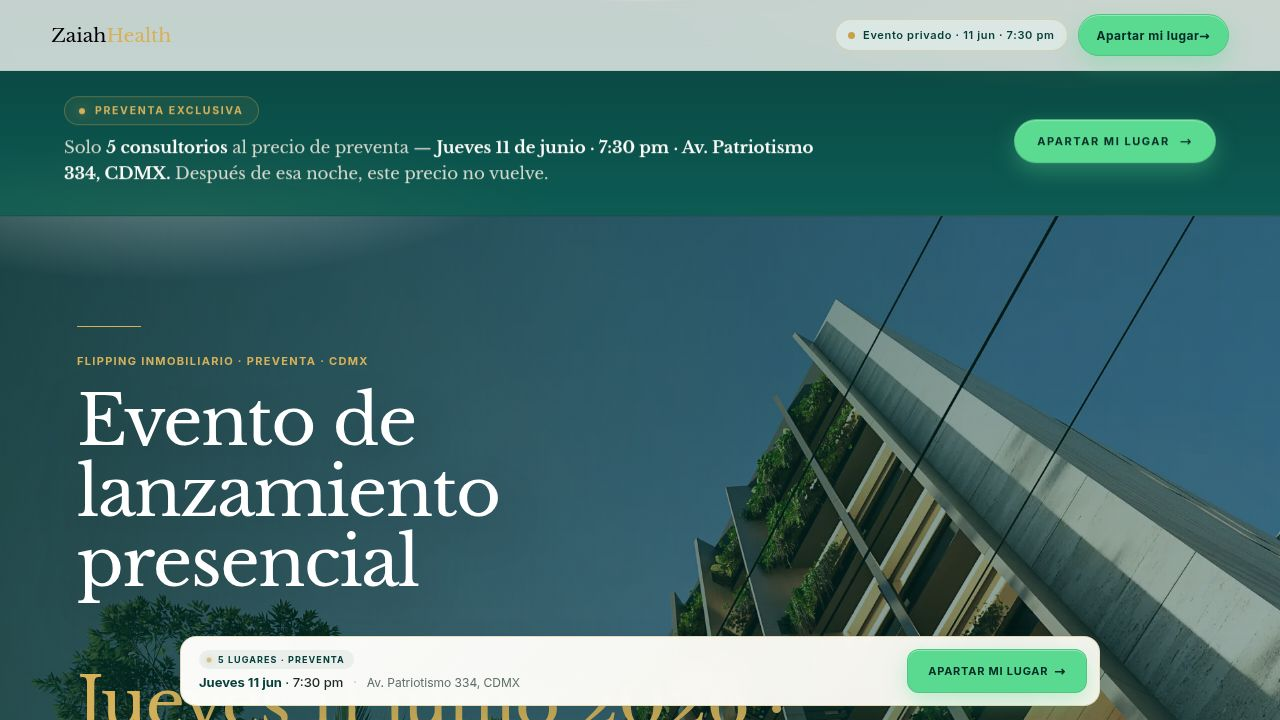
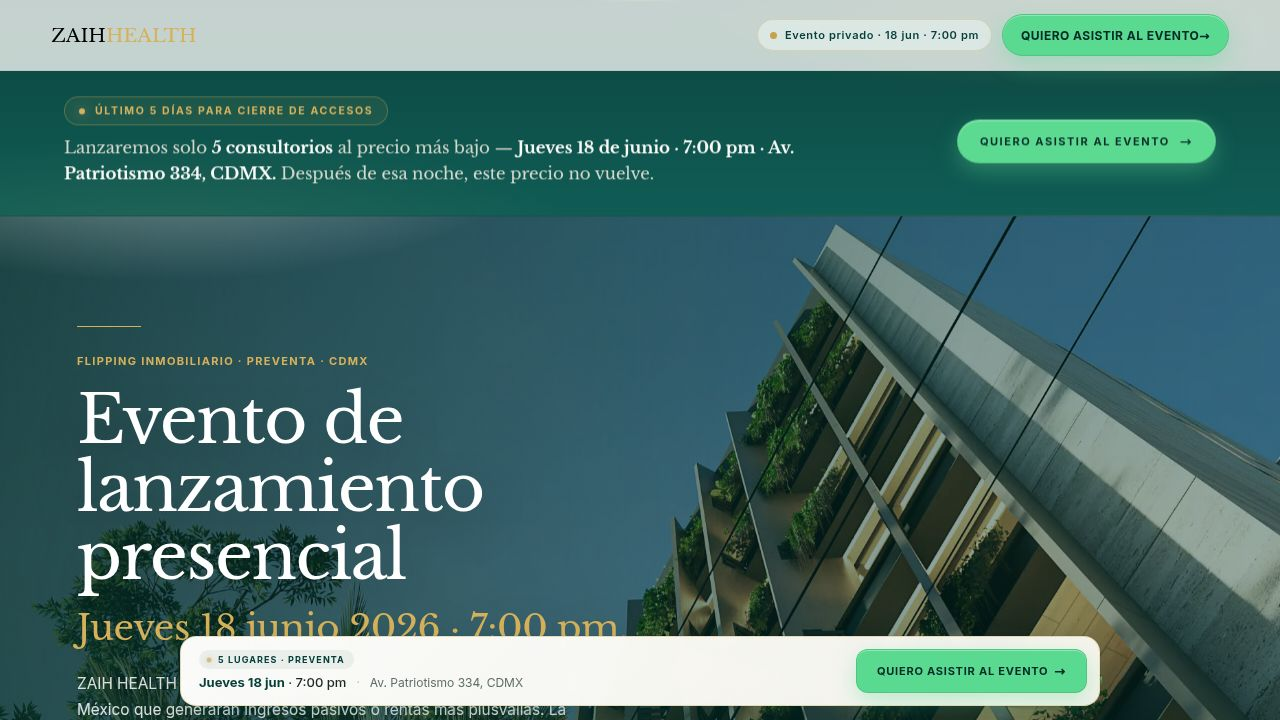
Update brand name and ensure thank you message displays correctly
Corrects the brand name from ZAIH to ZAIAH HEALTH across the landing page and ensures the thank you message only appears after form submission by fixing CSS specificity issues with the hidden attribute.

Replit-Commit-Author: Agent
Replit-Commit-Session-Id: 08580ebf-9783-4f84-9966-c726d7574d09
Replit-Commit-Checkpoint-Type: full_checkpoint
Replit-Commit-Event-Id: 6545b8aa-14b2-4467-a065-34ba739f941b
Replit-Commit-Screenshot-Url: https://storage.googleapis.com/screenshot-production-us-central1/f43a353c-fa28-4d36-9c00-c0c222d3d974/08580ebf-9783-4f84-9966-c726d7574d09/5Tq2rLb
Replit-Helium-Checkpoint-Created: true

diff --git a/artifacts/zaiah-landing/index.html b/artifacts/zaiah-landing/index.html
@@ -3,7 +3,7 @@
   <head>
     <meta charset="UTF-8" />
     <meta name="viewport" content="width=device-width, initial-scale=1.0" />
-    <title>ZAIH HEALTH | Consultorios boutique</title>
+    <title>ZAIAH HEALTH | Consultorios boutique</title>
     <link rel="preconnect" href="https://fonts.googleapis.com" />
     <link rel="preconnect" href="https://fonts.gstatic.com" crossorigin />
     <link href="https://fonts.googleapis.com/css2?family=Inter:wght@400;500;600;700&family=Libre+Baskerville:ital,wght@0,400;0,700;1,400&display=swap" rel="stylesheet" />
@@ -12,7 +12,7 @@
   </head>
   <body>
     <nav class="nav is-visible" aria-label="Principal">
-      <a class="nav-logo" href="#top" aria-label="ZAIH HEALTH"><span class="brand-zaiah">ZAIH</span><span>HEALTH</span></a>
+      <a class="nav-logo" href="#top" aria-label="ZAIAH HEALTH"><span class="brand-zaiah">ZAIAH</span><span>HEALTH</span></a>
       <div class="nav-right">
         <span class="nav-pill"><i></i> Evento privado · 18 jun · 7:00 pm</span>
         <a class="nav-btn" href="#reserva">QUIERO ASISTIR AL EVENTO <span aria-hidden="true">→</span></a>
@@ -48,7 +48,7 @@
         <div class="hero-media parallax">
           <img
             src="./assets/images/hero-banner.webp"
-            alt="ZAIH HEALTH — fachada del edificio boutique en San Pedro de los Pinos"
+            alt="ZAIAH HEALTH — fachada del edificio boutique en San Pedro de los Pinos"
             loading="eager"
             decoding="async"
             fetchpriority="high"
@@ -60,7 +60,7 @@
             <span class="hero-title">Evento de lanzamiento presencial</span>
             <span class="hero-date">Jueves 18 junio 2026 · 7:00 pm.</span>
           </h1>
-          <p>ZAIH HEALTH es el único proyecto de consultorios boutique en Ciudad de México que generarán ingresos pasivos o rentas más plusvalías. La ubicación es única, a 5 minutos del WTC sobre Av. Patriotismo 334, CDMX.</p>
+          <p>ZAIAH HEALTH es el único proyecto de consultorios boutique en Ciudad de México que generarán ingresos pasivos o rentas más plusvalías. La ubicación es única, a 5 minutos del WTC sobre Av. Patriotismo 334, CDMX.</p>
           <div class="hero-actions">
             <a class="btn primary" href="#evento">Ver el evento del 18 de junio</a>
           </div>
@@ -164,8 +164,8 @@
             <li class="step reveal">
               <span class="step-num">03</span>
               <div class="step-body">
-                <h3>ZAIH HEALTH opera todo</h3>
-                <p>La administración está resuelta por ZAIH HEALTH , se cede a un tercero para que no inviertas tu tiempo.</p>
+                <h3>ZAIAH HEALTH opera todo</h3>
+                <p>La administración está resuelta por ZAIAH HEALTH, se cede a un tercero para que no inviertas tu tiempo.</p>
                          
               </div>
             </li>
@@ -176,7 +176,7 @@
           <div class="dev-photo reveal">
             <img
               src="./assets/images/forbes-zaiah-developers.webp"
-              alt="Equipo desarrollador ZAIH HEALTH reconocido por Forbes"
+              alt="Equipo desarrollador ZAIAH HEALTH reconocido por Forbes"
               width="900"
               height="1200"
               decoding="async"
@@ -210,7 +210,7 @@
           <div class="scene-copy light reveal">
             <span class="sl">Especialidades del proyecto</span>
             <h2>Exclusivamente <em>no invasivas.</em></h2>
-            <p>ZAIH HEALTH opera con especialidades de bienestar y salud preventiva. No contempla cirugías, urgencias ni procedimientos invasivos.</p>
+            <p>ZAIAH HEALTH opera con especialidades de bienestar y salud preventiva. No contempla cirugías, urgencias ni procedimientos invasivos.</p>
           </div>
           <div class="spec-grid reveal-stagger">
             <article class="spec reveal" data-spec="nutricion">
@@ -290,7 +290,7 @@
 
         <section class="scene location cream-flow" id="ubicacion">
           <div class="location-card reveal parallax">
-            <img src="./assets/images/wtc-corredor.jpg" alt="Corredor WTC — ubicación ZAIH HEALTH, Av. Patriotismo 334, CDMX" width="1200" height="900" decoding="async" />
+            <img src="./assets/images/wtc-corredor.jpg" alt="Corredor WTC — ubicación ZAIAH HEALTH, Av. Patriotismo 334, CDMX" width="1200" height="900" decoding="async" />
           </div>
           <div class="scene-copy reveal">
             <span class="sl dark">Ubicación</span>
@@ -315,7 +315,7 @@
           <form class="form-card reveal" id="reserva-form" data-endpoint="/api/register" novalidate>
             <div class="form-top">
               <span>Invitación privada</span>
-              <strong>ZAIH HEALTH · Patriotismo 334</strong>
+              <strong>ZAIAH HEALTH · Patriotismo 334</strong>
             </div>
             <div class="fr">
               <label>Nombre<input name="nombre" type="text" placeholder="Tu nombre" required autocomplete="given-name" /></label>
@@ -366,13 +366,13 @@
 
       <footer class="foot">
         <div class="foot-inner">
-          <a class="foot-brand" href="#top" aria-label="ZAIH HEALTH">
-            <strong><span class="brand-zaiah">ZAIH</span><span>HEALTH</span></strong>
+          <a class="foot-brand" href="#top" aria-label="ZAIAH HEALTH">
+            <strong><span class="brand-zaiah">ZAIAH</span><span>HEALTH</span></strong>
             <span class="foot-dot" aria-hidden="true"></span>
             <span class="foot-addr">Av. Patriotismo 334, CDMX</span>
           </a>
           <p class="foot-meta">Consultorios boutique · Flipping con renta mensual · Entrega 2027</p>
-          <small class="foot-copy">© 2026 ZAIH HEALTH</small>
+          <small class="foot-copy">© 2026 ZAIAH HEALTH</small>
         </div>
       </footer>
     </div>

diff --git a/artifacts/zaiah-landing/styles.css b/artifacts/zaiah-landing/styles.css
@@ -9084,6 +9084,7 @@ body.has-banner-docked .lp {
 }
 
 /* ── Gracias card ─────────────────────────────────────────── */
+.gracias-card[hidden] { display: none; }
 .gracias-card {
   background: #fff;
   border-radius: 16px;